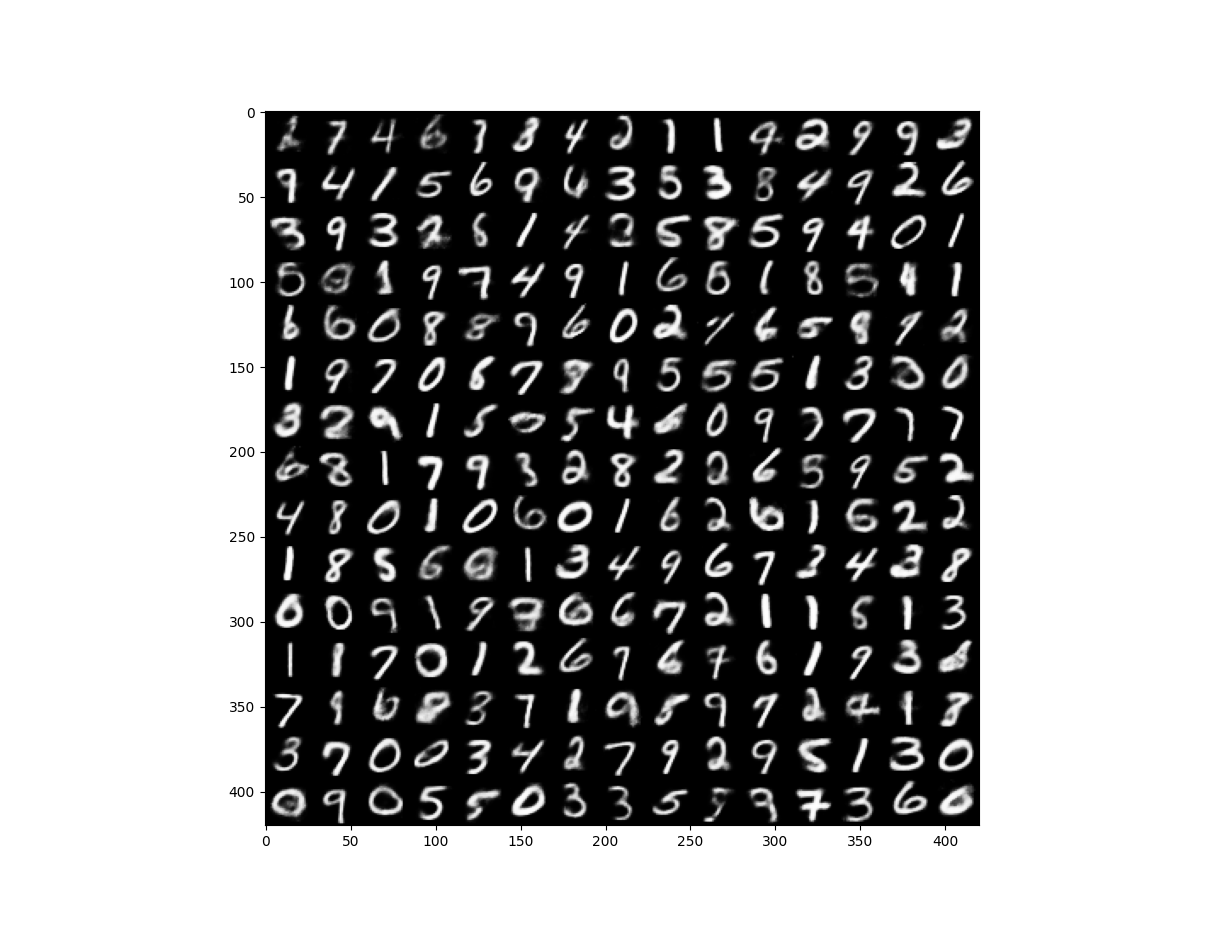
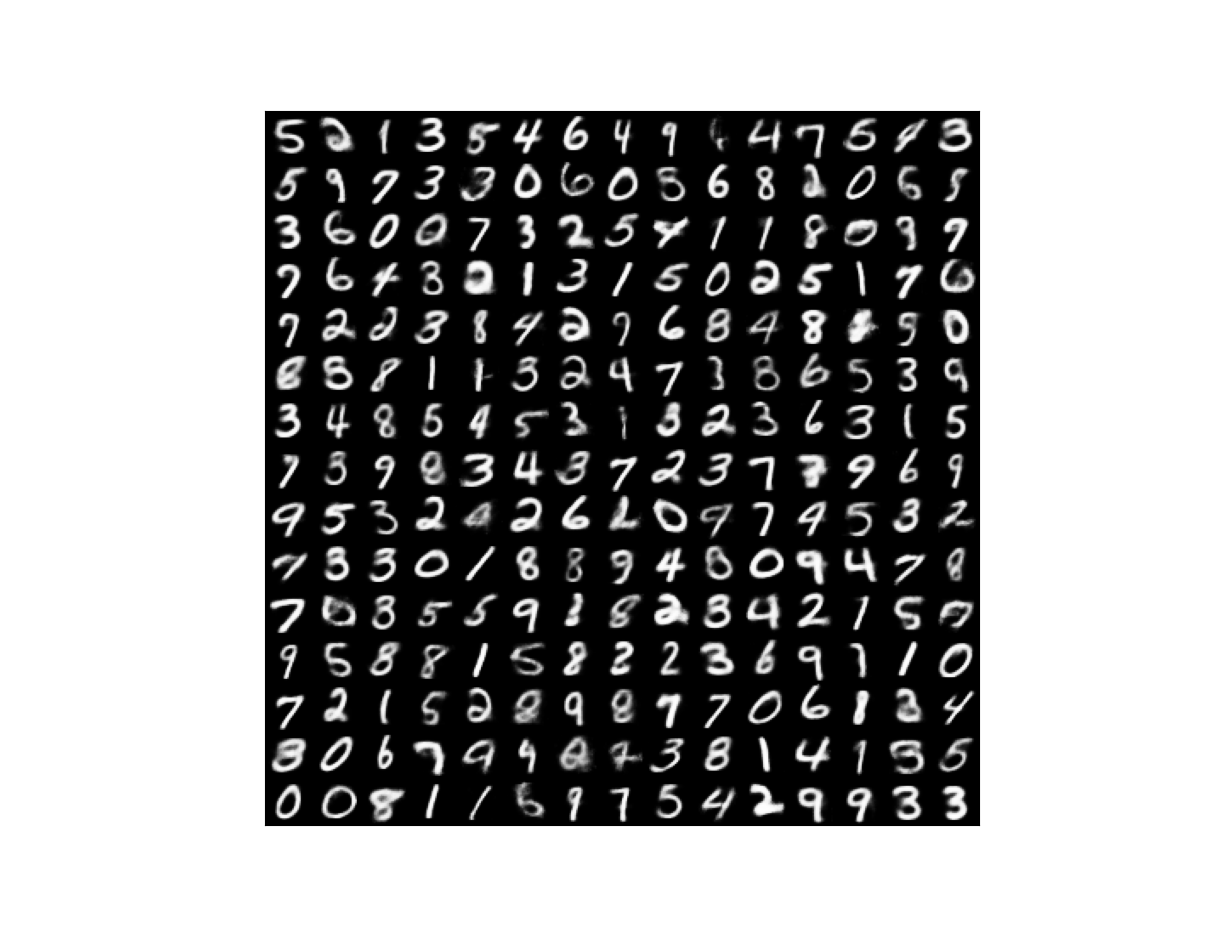
Add files via upload

Changed region(s): [[0.183, 0.1208, 0.8236, 0.9061]]

diff --git a/partial_vae.py b/partial_vae.py
@@ -351,6 +351,13 @@ for i in range(n):
 
 plt.figure(figsize=(10,10))
 plt.imshow(figure, cmap='Greys_r')
+plt.tick_params(
+    axis='both',
+    which='both',
+    bottom=False,
+    left=False,
+    labelbottom=False,
+    labelleft=False)
 plt.show()
 
 
@@ -362,6 +369,13 @@ image = x_test[tin]
 digit = tf.reshape(image, [digit_size, digit_size])
 plt.figure(figsize=(5,5))
 plt.imshow(digit, cmap='Greys_r')
+plt.tick_params(
+    axis='both',
+    which='both',
+    bottom=False,
+    left=False,
+    labelbottom=False,
+    labelleft=False)
 plt.show()
 
 @tf.autograph.experimental.do_not_convert
@@ -384,6 +398,13 @@ obsim = tf.math.multiply(image, tf.cast(mask, tf.float32))
 digit = tf.reshape(obsim, [digit_size, digit_size])
 plt.figure(figsize=(5,5))
 plt.imshow(digit, cmap='Greys_r')
+plt.tick_params(
+    axis='both',
+    which='both',
+    bottom=False,
+    left=False,
+    labelbottom=False,
+    labelleft=False)
 plt.show()
 
 # Call the model with the obscured image and its obscuring mask.
@@ -406,5 +427,12 @@ for i in range(n):
 
 plt.figure(figsize=(10,10))
 plt.imshow(figure, cmap='Greys_r')
+plt.tick_params(
+    axis='both',
+    which='both',
+    bottom=False,
+    left=False,
+    labelbottom=False,
+    labelleft=False)
 plt.show()
 
